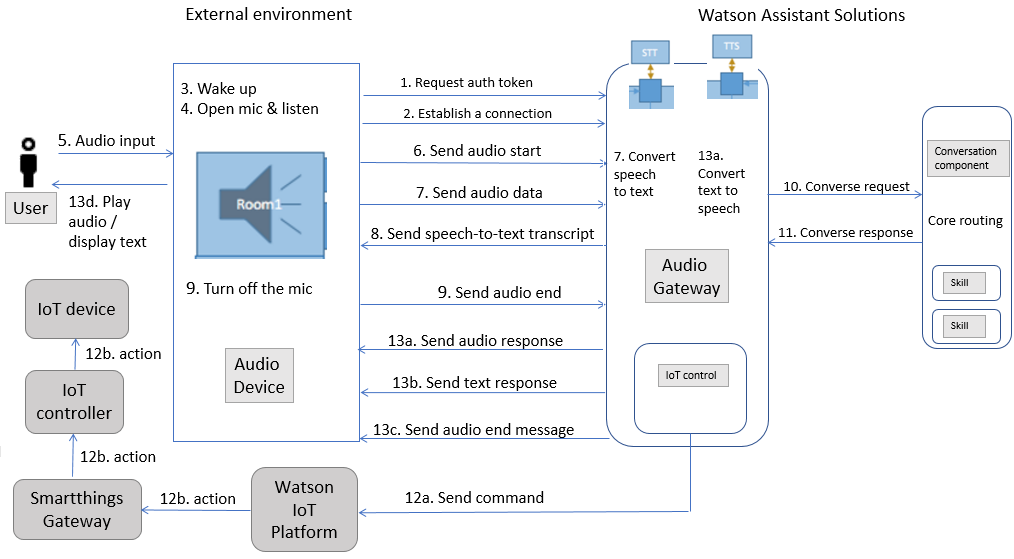
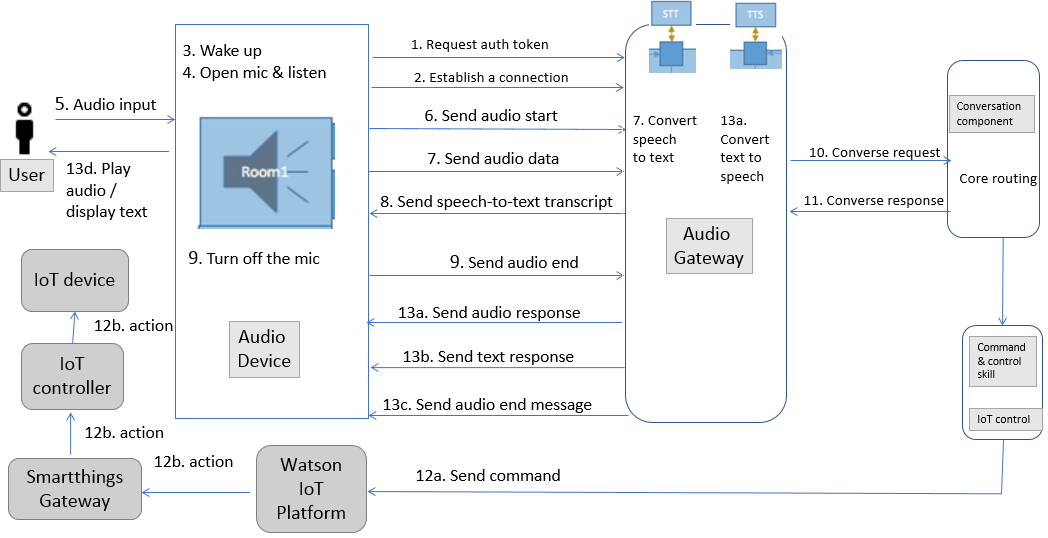
iot_control_fulfillment

diff --git a/_content/audio_single/how_it_works_audio.md b/_content/audio_single/how_it_works_audio.md
@@ -2,7 +2,7 @@
 title: How the audio gateway works
 weight: 10
 ---
-The audio client passes an auth token when it first connects to audio gateway to authenticate. For more information about client authentication, see the [Authenticating audio devices]({{site.baseurl}}/audio_single/audio_authentication/) topic.
+The audio client passes an authorization token when it first connects to audio gateway to authenticate. For more information about client authentication, see the [Authenticating audio devices]({{site.baseurl}}/audio_single/audio_authentication/) topic.
 
 For an audio gateway for hospitality, the flow for processing audio and IoT control in Watson Assistant Solutions is shown in figure 1.
 
@@ -19,15 +19,15 @@ The steps in this flow are as follows:
 8. The audio gateway sends `speech-to-text transcript` messages to the audio client.
 9. The audio client sends an `audio end` message to the gateway and turns off its microphone.
 10. The audio gateway forwards the text input to the routing core.
-11. The routing core sends the utterance to the conversation component for evaluation and processing. The skill with the highest confidence processes the request and sends a response. The conversation component forwards the converse response from the skill to the audio gateway. For details of these steps, see [How routing works]({{site.baseurl}}/understand-service/how_it_works/). If the request is processed by a command and control skill, the skill might respond with the text response alone or it might respond with a card that includes an IoT command alone or it might respond with a text response and a card.
-12. If an IoT command is returned:
-    - A. The IoT control component of the audio gateway sends an MQTT message with the command to the Watson IoT platform.
+11. The routing core sends the utterance to the conversation component for evaluation and processing. The skill with the highest confidence processes the request and sends a response. The conversation component forwards the converse response from the skill to the audio gateway. For details of these steps, see [How routing works]({{site.baseurl}}/understand-service/how_it_works/). If the request is processed by a command and control skill, your skill might send a request to the Watson IoT platform to implement an IoT command.
+12. When your skill sends a request to the IoT platform to implement an IoT command:
+    - A. Your skill sends an MQTT message with the command to the Watson IoT platform.
     - B. The Watson IoT platform routes the command through a smartthings gateway to an IoT controller that performs the action.
-13. If a text response is returned:
-    - A. If an audio will be delivered to the user, the audio gateway converts the response from the routing core to audio using a text-to-           speech service.  The gateway sends each chunk of binary audio data to the client in real-time.
+13. When no IoT command is required:
+    - A. If audio will be delivered to the user, the audio gateway converts the response from the routing core to audio using a text-to-speech service.  The gateway sends each chunk of binary audio data to the client in real-time.
     - B. If text will be delivered to the user, the audio gateway sends the text reply to the device.
     - C. The audio gateway sends an `audio end` message.
-    - D. The audio client plays the audio response or displays the text response, or both. The audio client checks if the audio gateway set the prompt parameter to true in the audio end message. If true, the skill expects a response from the audio client, and the steps are repeated from step 4.  Otherwise the audio client waits for a new wake-up command.
+    - D. The audio client plays the audio response or displays the text response, or both. The audio client checks if the audio gateway set the prompt parameter to true in the audio end message. If true, the skill expects a response from the audio client, and the steps are repeated from step 4.  Otherwise, the audio client waits for a new wake-up command.
 
 **Note**: If the action takes some time, the IoT controller might send additional responses to the audio gateway. For example, if the IoT controller is instructed to open the blinds, it might send a 'the blinds are now open' response to the gateway.  If the audio device is still connected to the gateway, the audio gateway streams the 'blinds are now open' response to the device.
 
